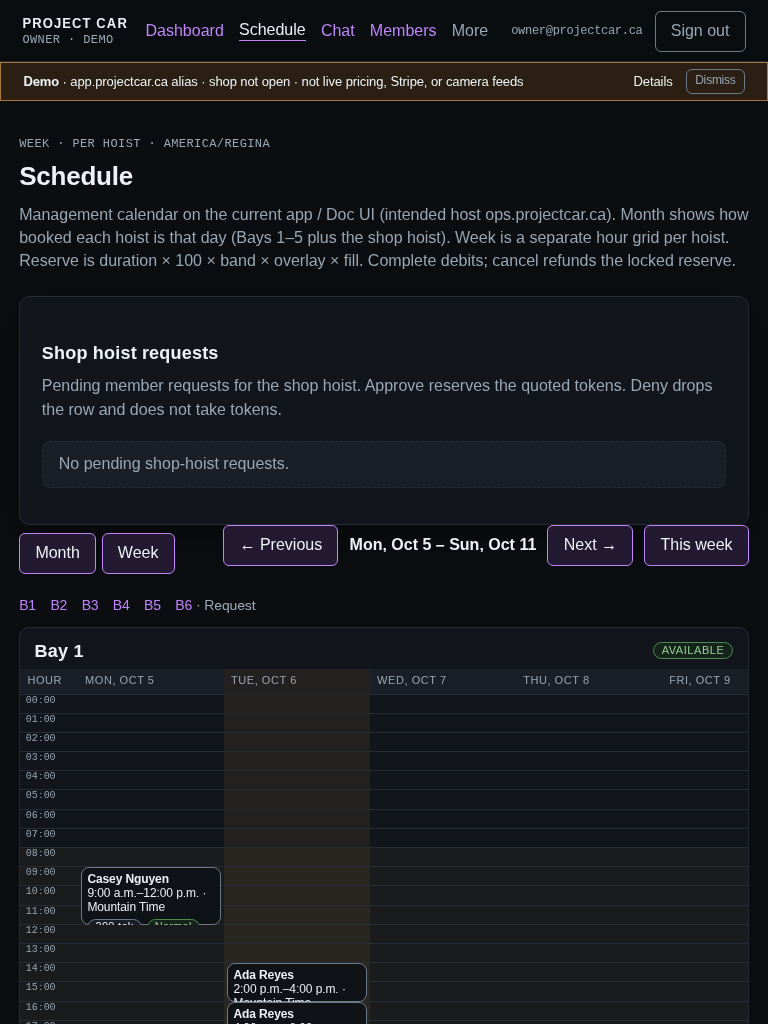
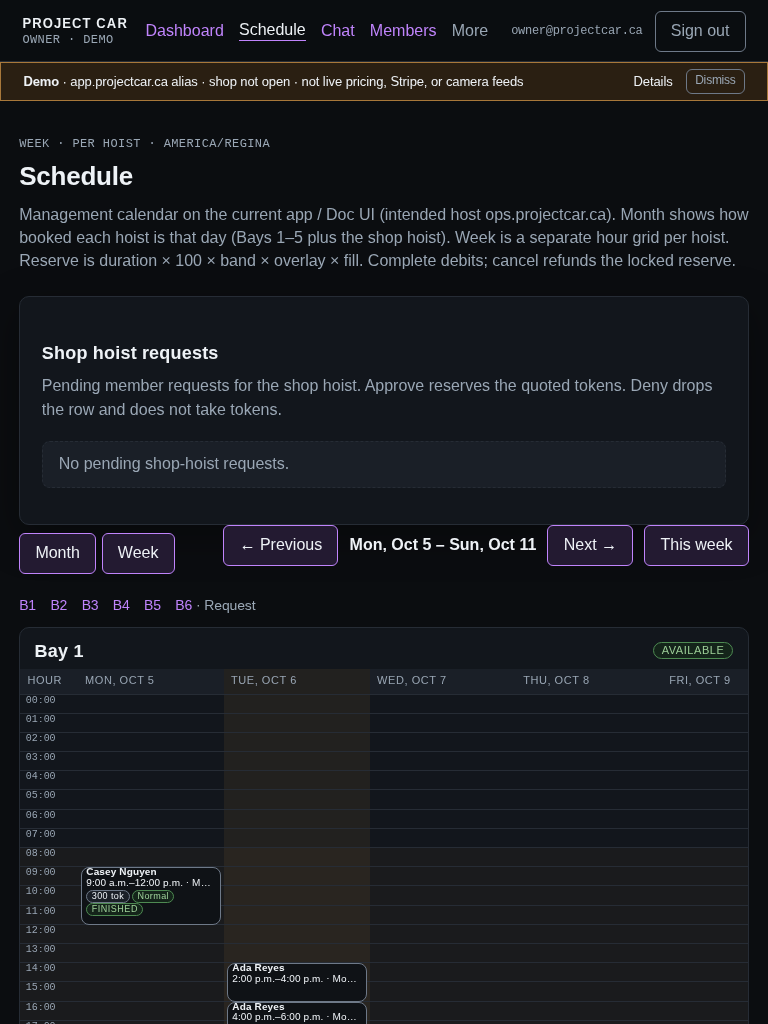
Restore unused-token finish and unclip week chips.
Finish posts completeUnusedField again, cancel does not require a reason, and compact week chips ellipsize instead of cutting pills.

Changed region(s): [[0.0938, 0.8438, 0.25, 0.9062], [0.2812, 0.9375, 0.4375, 1.0]]

diff --git a/apps/project-car/web/components/owner-booking-card.tsx b/apps/project-car/web/components/owner-booking-card.tsx
@@ -1,16 +1,18 @@
+import { BookingCost } from "./booking-cost";
+import { ScheduleReturnFields, type ScheduleReturn } from "./schedule-return-fields";
+import { offersCancel } from "../lib/booking-cancel";
+import { completeUnusedField } from "../lib/booking-complete";
+import { bookingStatusLabel } from "../lib/booking-words";
+import { formatCalendarTime } from "../lib/calendar";
+import type { Booking } from "../lib/config";
+import { checkInButtonState } from "../lib/check-in-window";
+import { shopClock } from "../lib/time";
 import {
   cancelBookingAction,
   checkInBookingAction,
   completeBookingAction,
   confirmBookingAction,
 } from "../app/schedule/actions";
-import { bookingStatusLabel } from "../lib/booking-words";
-import { formatCalendarTime } from "../lib/calendar";
-import { checkInButtonState } from "../lib/check-in-window";
-import type { Booking } from "../lib/config";
-import { shopClock } from "../lib/time";
-import { BookingCost } from "./booking-cost";
-import { ScheduleReturnFields, type ScheduleReturn } from "./schedule-return-fields";
 
 export function OwnerBookingCard({
   booking,
@@ -23,6 +25,7 @@ export function OwnerBookingCard({
 }) {
   const checkIn =
     booking.status === "confirmed" ? checkInButtonState(booking.start_at, shopClock(), booking.end_at) : null;
+  const unused = completeUnusedField(booking.status, booking.reserved_tokens);
   return (
     <article
       className={`booking-chip status-${booking.status}${booking.kind === "shop" ? " booking-chip-shop" : ""}${compact ? " booking-chip-hour" : ""}`}
@@ -52,22 +55,21 @@ export function OwnerBookingCard({
             {checkIn.hint ? <span className="check-in-hint">{checkIn.hint}</span> : null}
           </form>
         ) : null}
-        {booking.status === "active" || booking.status === "overdue" ? (
+        {unused ? (
           <form className="complete-booking" action={completeBookingAction}>
             <ScheduleReturnFields returnTo={returnTo} />
             <input type="hidden" name="id" value={booking.id} />
-            <button type="submit">Finish visit</button>
-            <span className="check-in-hint">Time past the booked end is charged by the hour.</span>
+            <label className="unused-tokens">
+              Unused
+              <input {...unused} inputMode="decimal" />
+            </label>
+            <button type="submit">Complete</button>
           </form>
         ) : null}
-        {booking.status === "pending" || booking.status === "confirmed" ? (
+        {offersCancel(booking.status, "owner") ? (
           <form action={cancelBookingAction}>
             <ScheduleReturnFields returnTo={returnTo} />
             <input type="hidden" name="id" value={booking.id} />
-            <label>
-              Reason
-              <input type="text" name="reason" required minLength={3} maxLength={500} />
-            </label>
             <button className="ghost" type="submit">
               Cancel
             </button>

diff --git a/apps/project-car/web/app/globals.css b/apps/project-car/web/app/globals.css
@@ -945,19 +945,97 @@ main.wide {
   left: 3px;
   right: 3px;
   z-index: 2;
-  overflow: auto;
+  overflow: hidden;
+  min-width: 0;
+  container-type: size;
 }
 
 .booking-chip-hour {
   margin: 0;
   height: 100%;
-  font-size: 0.74rem;
-  padding: 0.25rem 0.35rem;
+  min-width: 0;
+  box-sizing: border-box;
+  overflow: hidden;
+  display: flex;
+  flex-flow: row wrap;
+  align-content: flex-start;
+  align-items: center;
+  column-gap: 0.28rem;
+  font-size: 0.64rem;
+  line-height: 1.05;
+  padding: 0 0.28rem;
 }
 
+.booking-chip-hour strong,
+.booking-chip-hour > div:not(.booking-cost):not(.chip-actions) {
+  min-width: 0;
+  overflow: hidden;
+  text-overflow: ellipsis;
+  white-space: nowrap;
+}
+
+.booking-chip-hour strong { flex: 1 1 auto; }
+.booking-chip-hour > div { flex: 1 1 100%; }
+
+.booking-chip-hour :is(.pill, .token-badge, .band-chip, .overlay-chip, .fill-chip) {
+  max-width: 100%;
+  overflow: hidden;
+  text-overflow: ellipsis;
+  white-space: nowrap;
+  padding: 0 0.28rem;
+  font-size: 0.58rem;
+  line-height: 1.2;
+}
+
+.booking-chip-hour .booking-cost {
+  flex-wrap: nowrap;
+  margin: 0;
+  gap: 0.15rem;
+  min-width: 0;
+  max-width: 100%;
+  overflow: hidden;
+}
+
+.booking-chip-hour .token-badge { flex: 0 0 auto; }
+
+.booking-chip-hour .booking-cost > :not(.token-badge) {
+  min-width: 0;
+  flex: 0 1 auto;
+}
+
+.booking-chip-hour .chip-actions {
+  margin-top: 0;
+  flex-wrap: nowrap;
+  min-width: 0;
+  max-width: 100%;
+  overflow: hidden;
+}
+
+.booking-chip-hour .check-in-hint { display: none; }
+
 .booking-chip-hour .chip-actions button {
-  padding: 0.18rem 0.35rem;
-  font-size: 0.68rem;
+  padding: 0 0.28rem;
+  font-size: 0.58rem;
+  line-height: 1.2;
+}
+
+@container (max-height: 4rem) {
+  .booking-chip-hour .chip-actions {
+    display: none;
+  }
+}
+
+@container (max-height: 3rem) {
+  .booking-chip-hour .booking-cost,
+  .booking-chip-hour > .pill:not(.pill-shop) {
+    display: none;
+  }
+}
+
+@container (max-height: 1.8rem) {
+  .booking-chip-hour > div {
+    display: none;
+  }
 }
 
 .booking-chip-hour .unused-tokens input {
